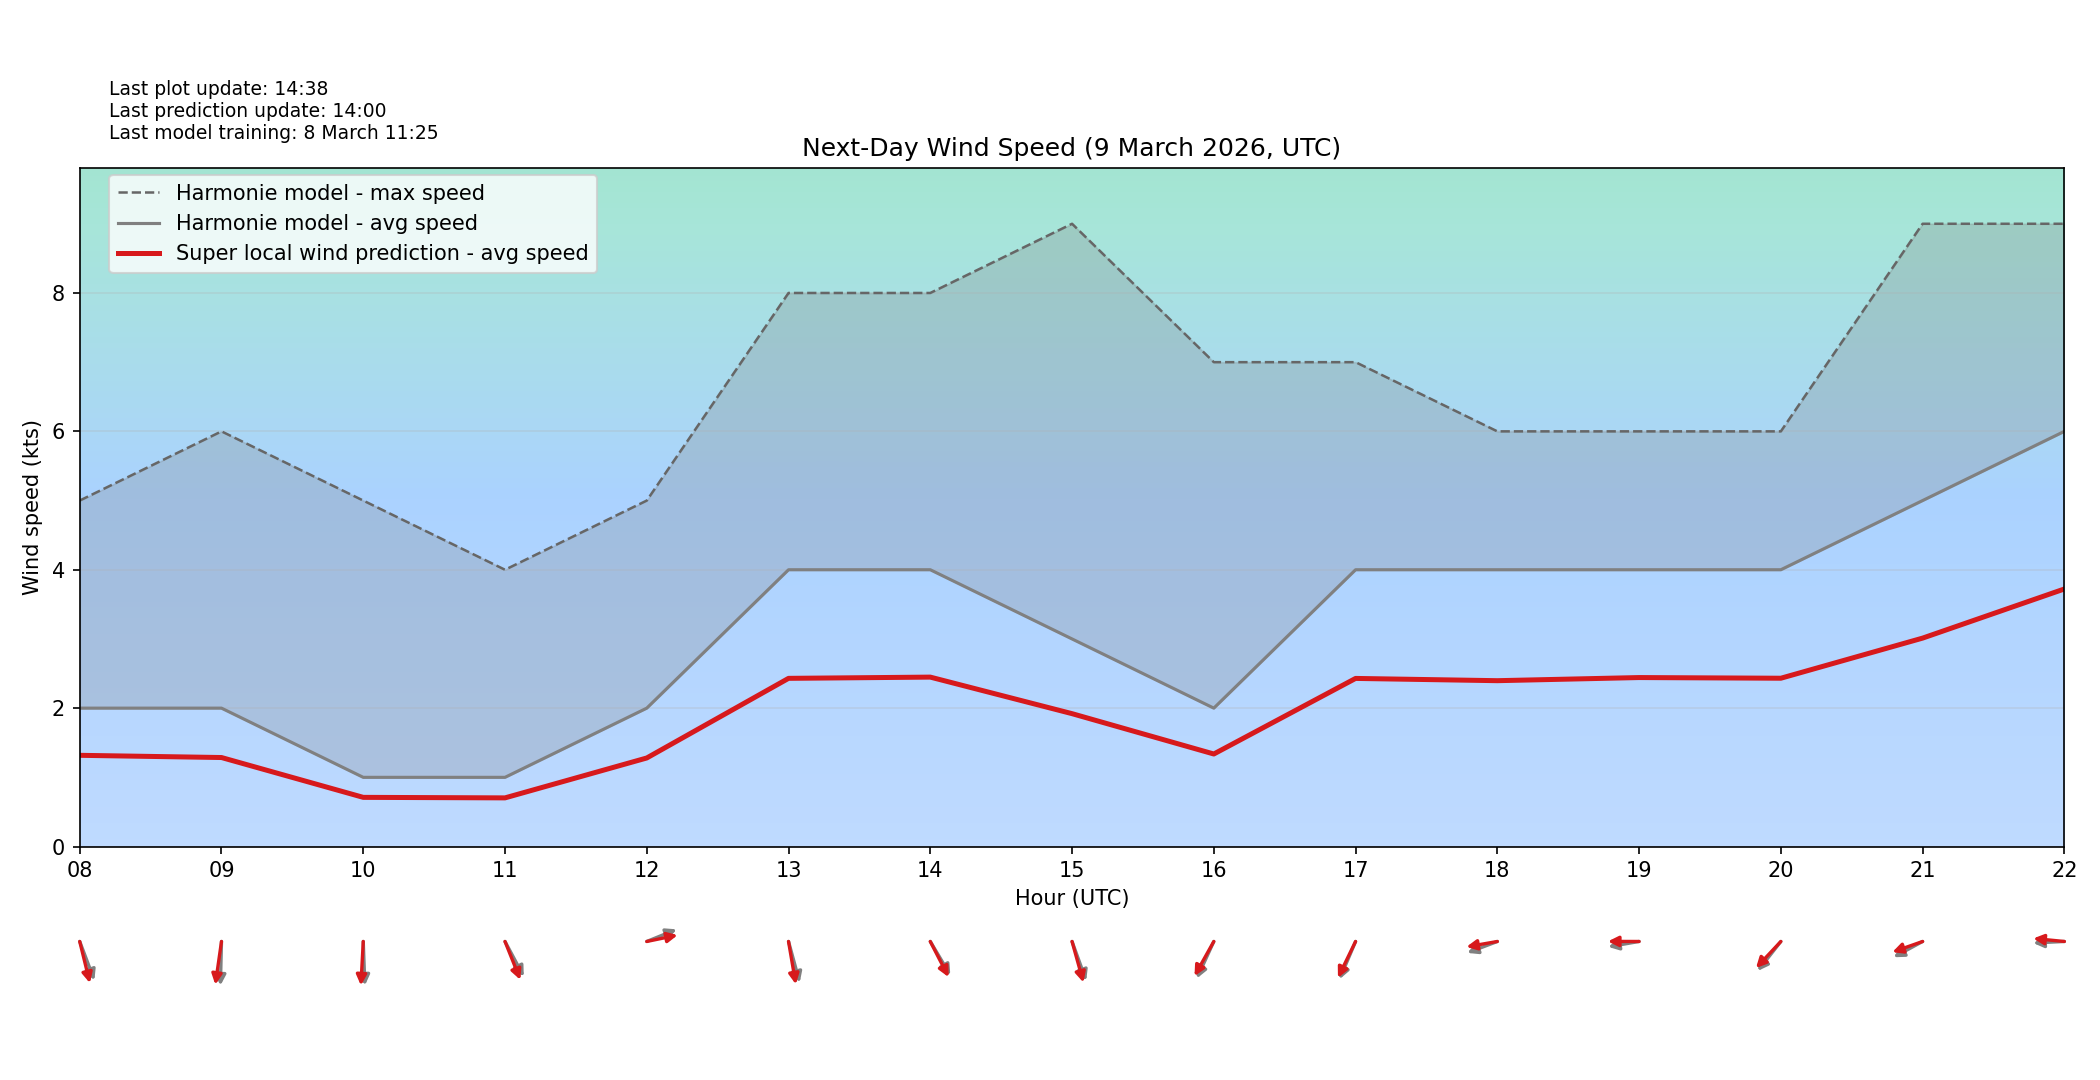
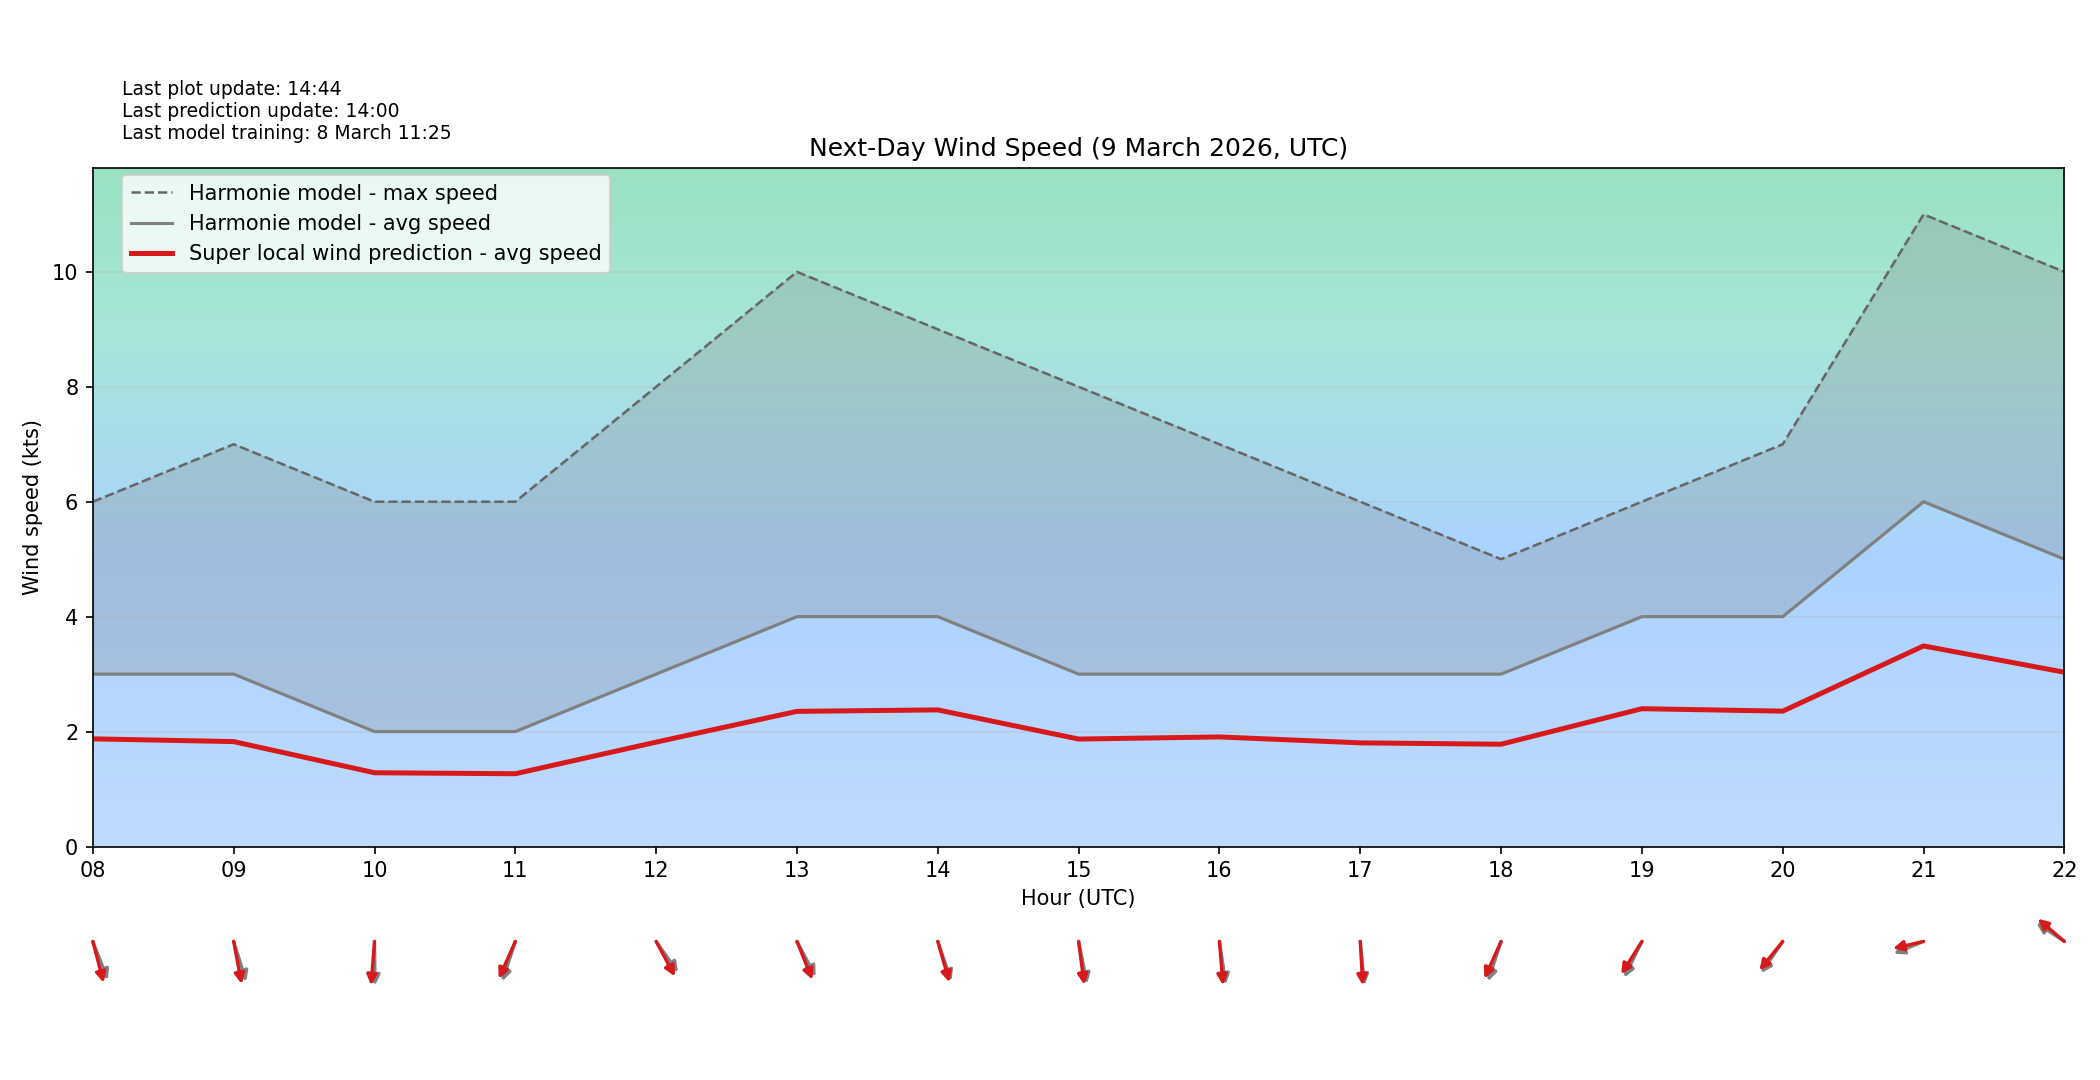
auto: update dashboard artifacts (2026-03-08 13:44 UTC)

diff --git a/docs/index.html b/docs/index.html
@@ -18,7 +18,7 @@
 </head>
 <body>
   <h1>Super local wind prediction Valkenburgse meer</h1>
-  <p class="meta">Last updated: 08 March 2026 14:38:06 CET</p>
+  <p class="meta">Last updated: 08 March 2026 14:44:07 CET</p>
   <p>
     <a href="next_day_predictions.csv">Next-day table CSV</a>
     <a href="current_day_predictions.csv">Current-day table CSV</a>
@@ -27,15 +27,15 @@
   <div class="grid">
     <div class="card">
       <h2>Current Day Prediction</h2>
-      <img src="current_day_predictions.png?v=1772977086" alt="Current day prediction">
+      <img src="current_day_predictions.png?v=1772977447" alt="Current day prediction">
     </div>
     <div class="card">
       <h2>Next Day Prediction</h2>
-      <img src="next_day_predictions.png?v=1772977086" alt="Next day prediction">
+      <img src="next_day_predictions.png?v=1772977447" alt="Next day prediction">
     </div>
     <div class="card">
       <h2>Day-ahead MAE History</h2>
-      <img src="daily_mae_history.png?v=1772977086" alt="Day-ahead MAE history">
+      <img src="daily_mae_history.png?v=1772977447" alt="Day-ahead MAE history">
     </div>
   </div>
 </body>
